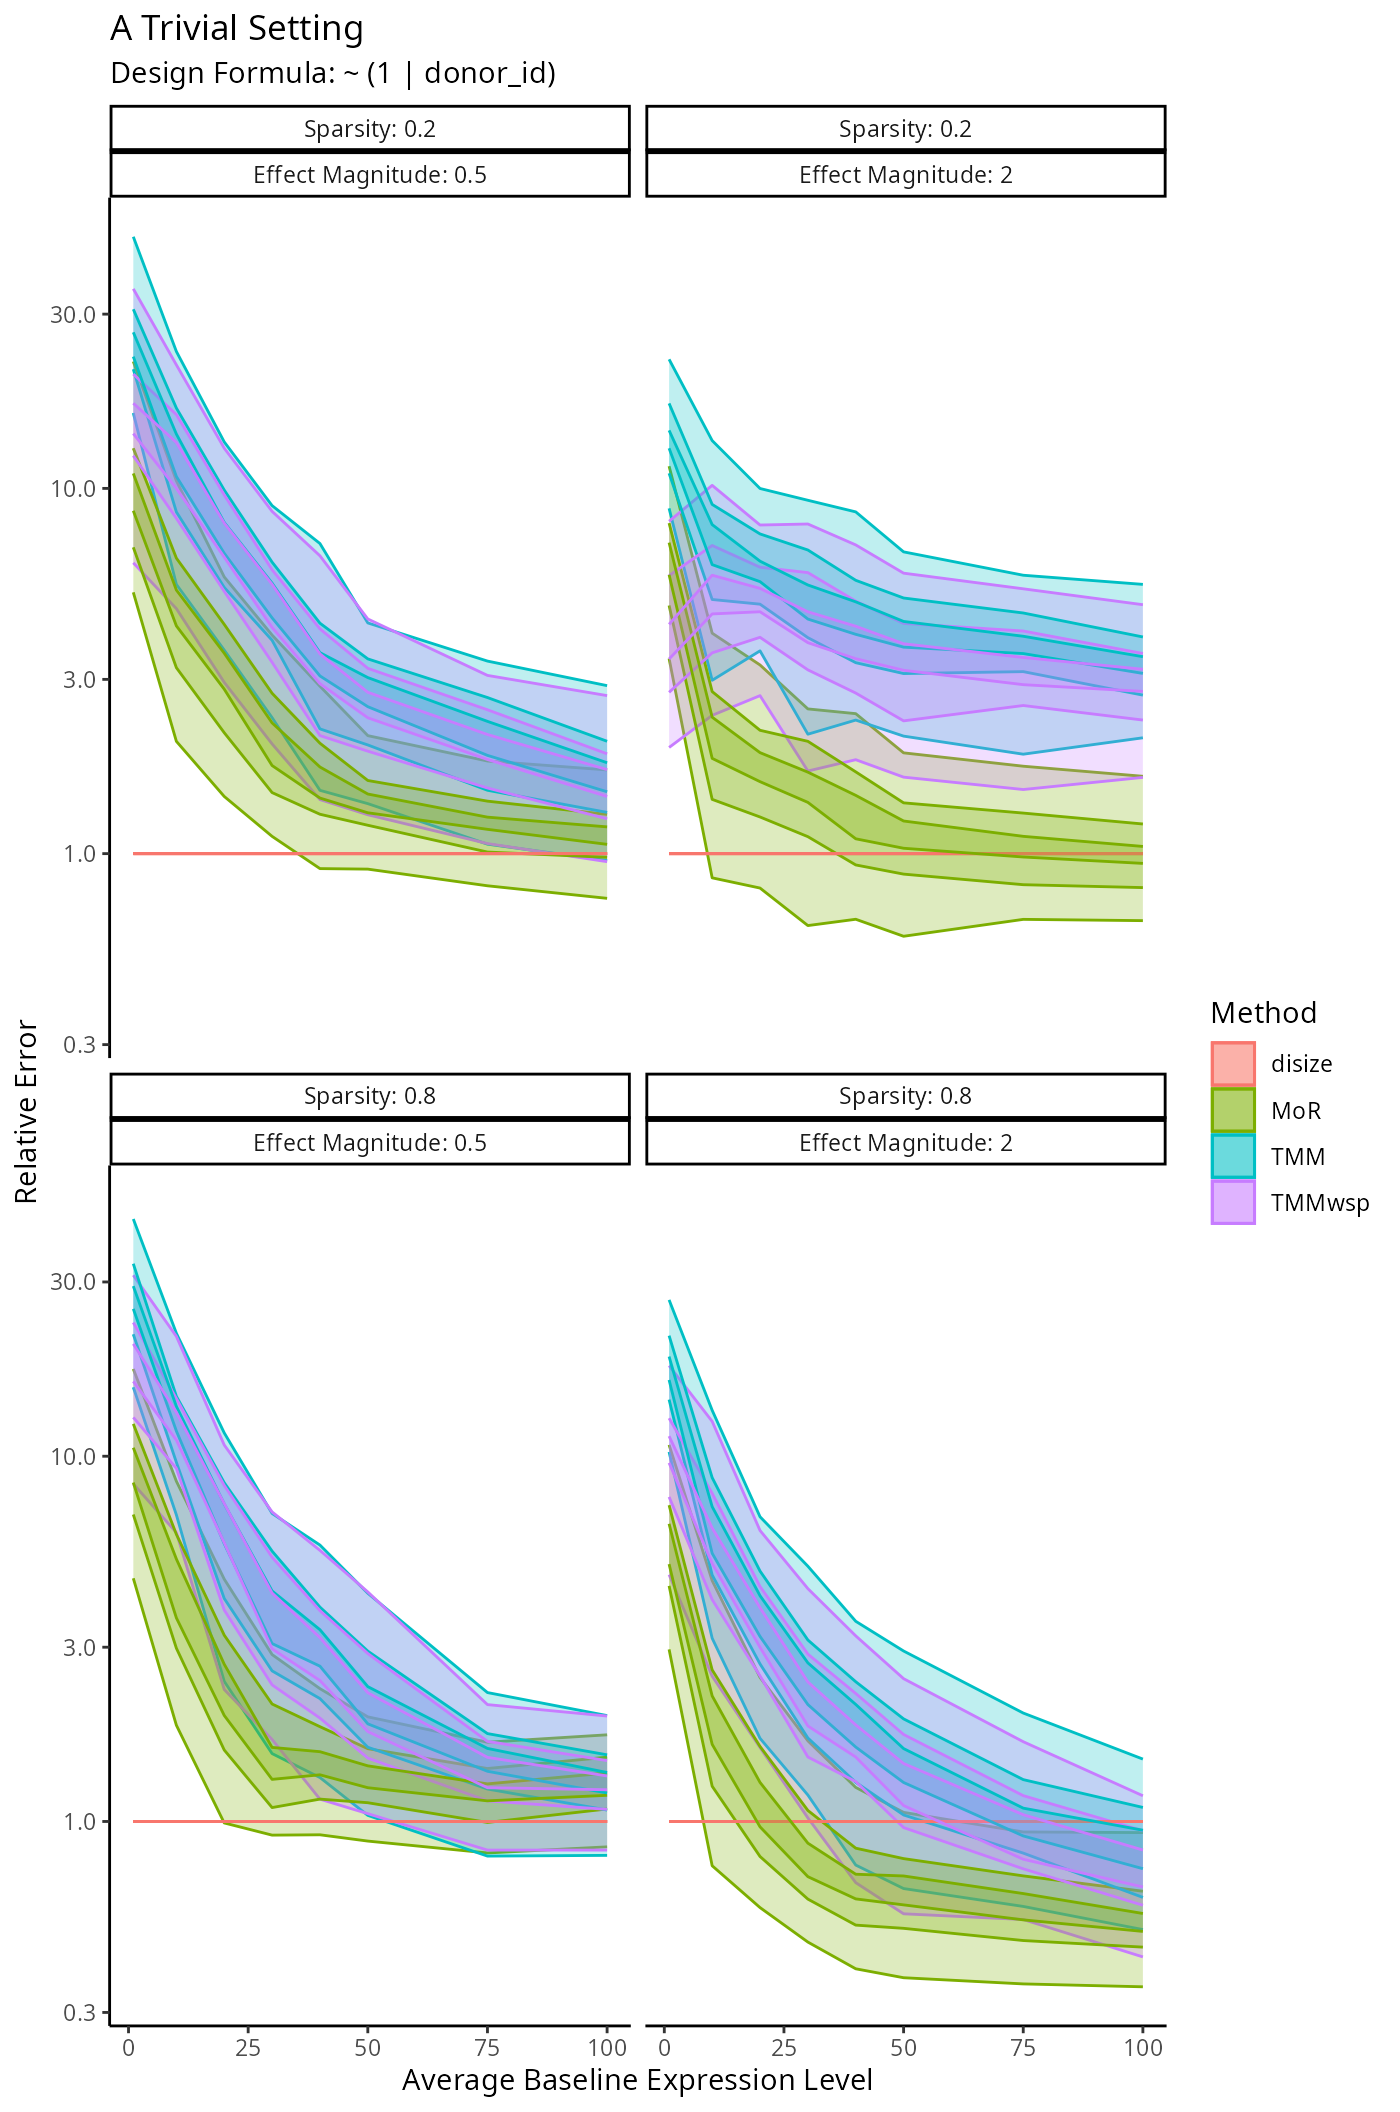
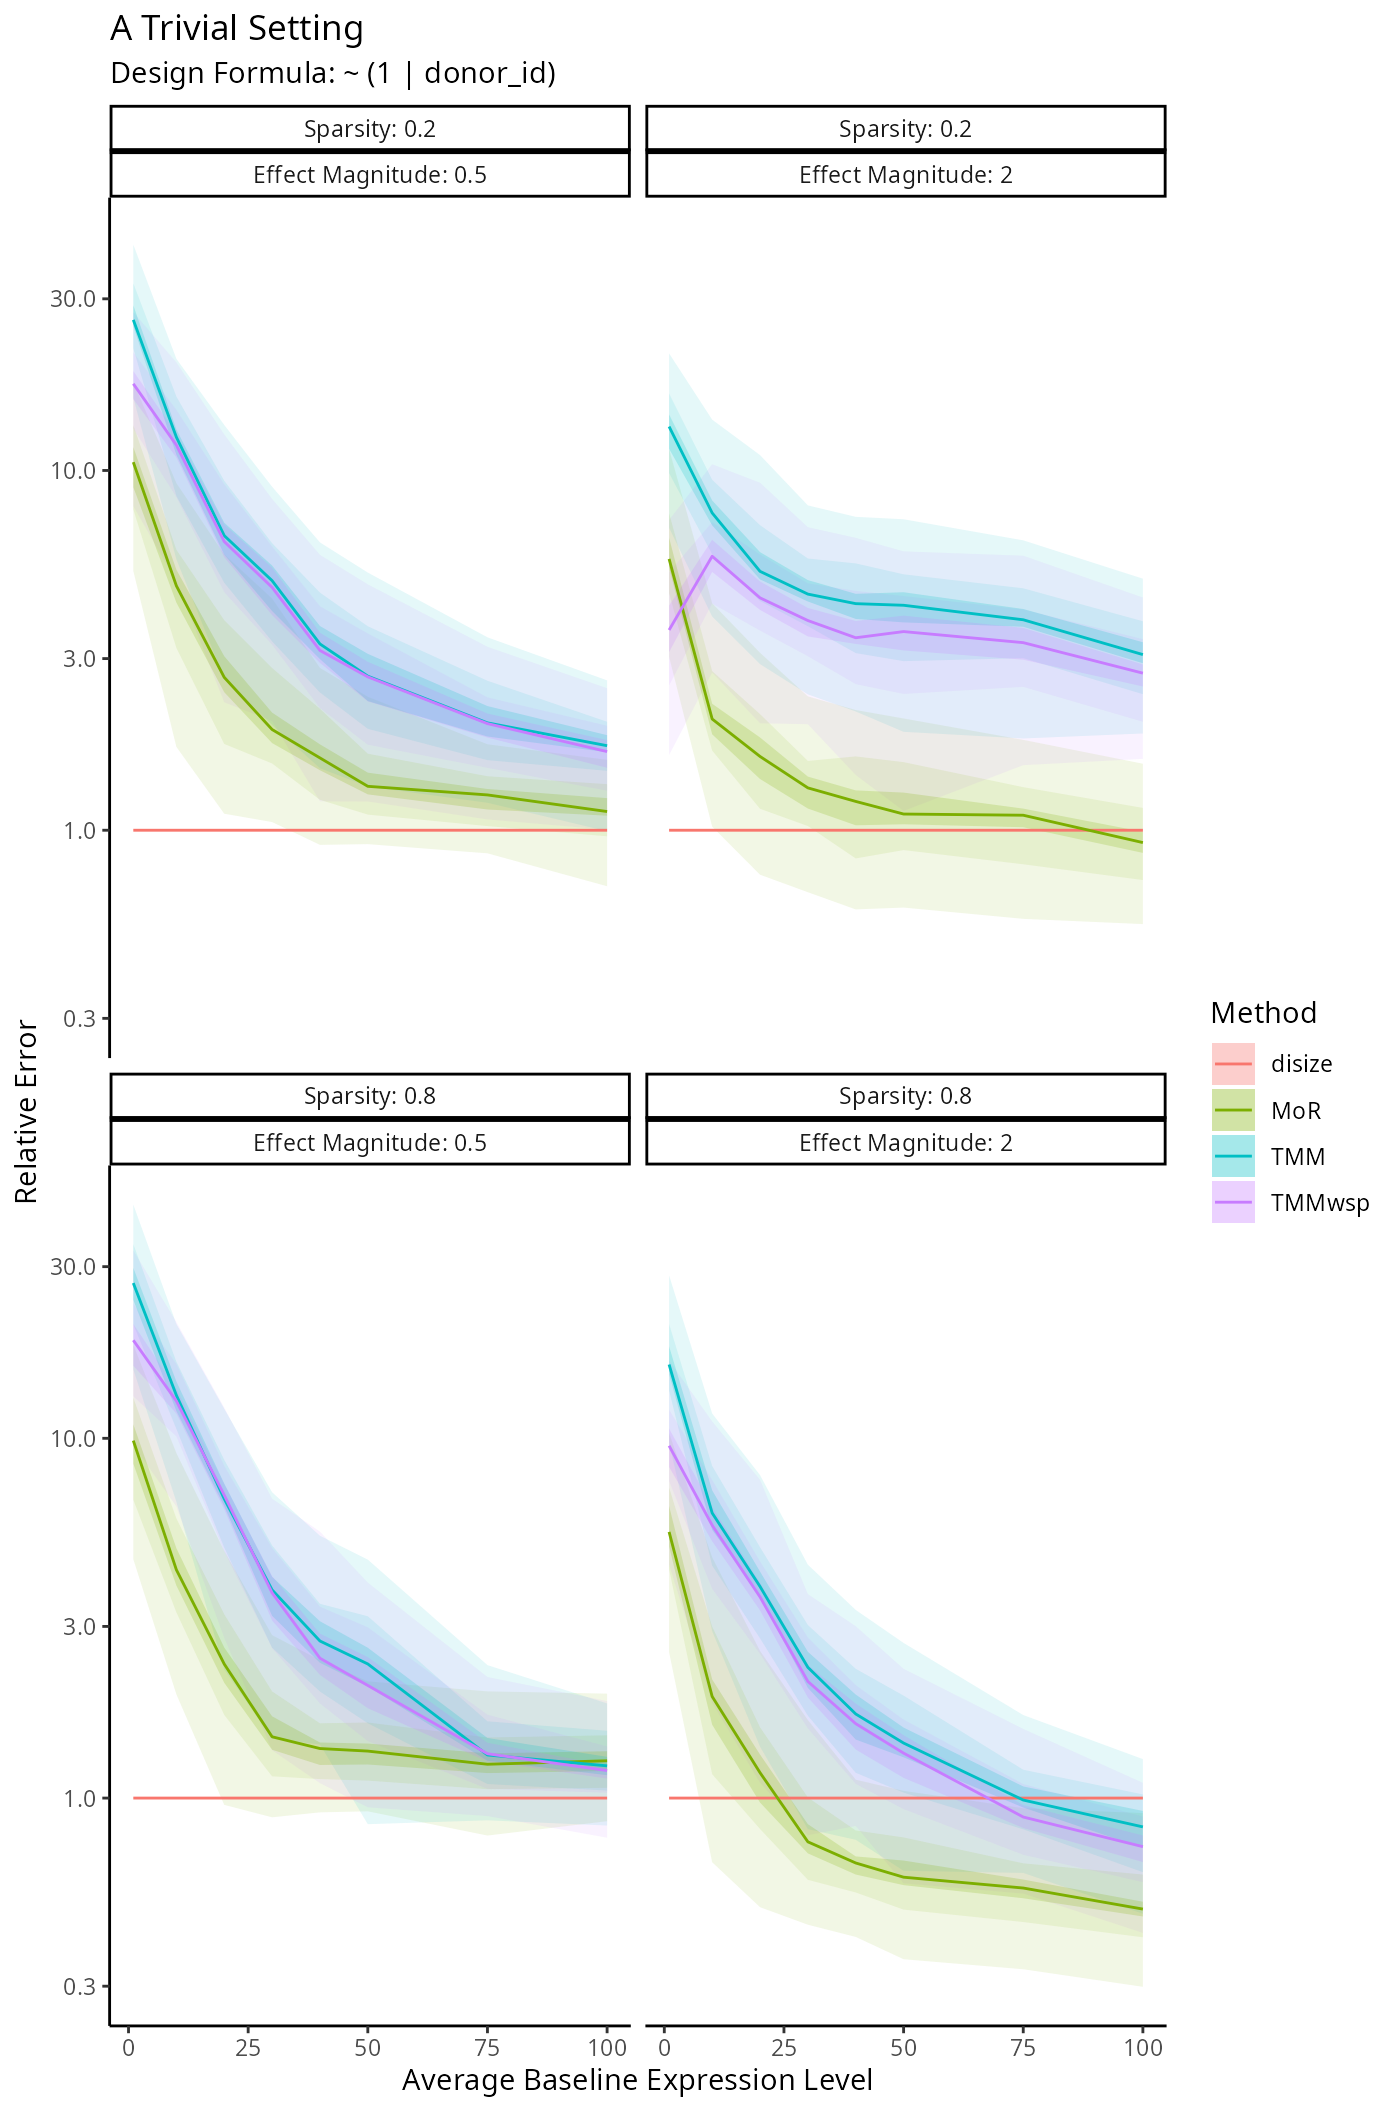
Built site for disize@0.5.0:

diff --git a/articles/benchmarking.html b/articles/benchmarking.html
@@ -180,8 +180,8 @@ to a given scenario:</p>
 <span>    <span class="co"># Construct model matrices...</span></span>
 <span></span>
 <span>    <span class="co"># Simulate size factors</span></span>
-<span>    <span class="va">size_factors</span> <span class="op">&lt;-</span> <span class="fu"><a href="https://rdrr.io/r/stats/Uniform.html" class="external-link">runif</a></span><span class="op">(</span><span class="fu"><a href="https://rdrr.io/r/base/length.html" class="external-link">length</a></span><span class="op">(</span><span class="fu"><a href="https://rdrr.io/r/base/levels.html" class="external-link">levels</a></span><span class="op">(</span><span class="va">metadata</span><span class="op">$</span><span class="va">batch_id</span><span class="op">)</span><span class="op">)</span>, <span class="fl">0.1</span>, <span class="fl">1.0</span><span class="op">)</span> <span class="op">|&gt;</span></span>
-<span>        <span class="fu"><a href="https://rdrr.io/r/stats/setNames.html" class="external-link">setNames</a></span><span class="op">(</span><span class="fu"><a href="https://rdrr.io/r/base/levels.html" class="external-link">levels</a></span><span class="op">(</span><span class="va">metadata</span><span class="op">$</span><span class="va">batch_id</span><span class="op">)</span><span class="op">)</span></span>
+<span>    <span class="va">size_factors</span> <span class="op">&lt;-</span> <span class="fu"><a href="https://rdrr.io/r/stats/Uniform.html" class="external-link">runif</a></span><span class="op">(</span><span class="fu"><a href="https://rdrr.io/r/base/length.html" class="external-link">length</a></span><span class="op">(</span><span class="fu"><a href="https://rdrr.io/pkg/S4Vectors/man/Factor-class.html" class="external-link">levels</a></span><span class="op">(</span><span class="va">metadata</span><span class="op">$</span><span class="va">batch_id</span><span class="op">)</span><span class="op">)</span>, <span class="fl">0.1</span>, <span class="fl">1.0</span><span class="op">)</span> <span class="op">|&gt;</span></span>
+<span>        <span class="fu"><a href="https://rdrr.io/r/stats/setNames.html" class="external-link">setNames</a></span><span class="op">(</span><span class="fu"><a href="https://rdrr.io/pkg/S4Vectors/man/Factor-class.html" class="external-link">levels</a></span><span class="op">(</span><span class="va">metadata</span><span class="op">$</span><span class="va">batch_id</span><span class="op">)</span><span class="op">)</span></span>
 <span>    <span class="va">batch_effect</span> <span class="op">&lt;-</span> <span class="va">size_factors</span><span class="op">[</span><span class="va">metadata</span><span class="op">$</span><span class="va">batch_id</span><span class="op">]</span></span>
 <span></span>
 <span>    <span class="co"># Simulate counts</span></span>
@@ -260,8 +260,8 @@ a dataset similar to the benchmarks above:</p>
 <span>    <span class="va">iodisps</span> <span class="op">&lt;-</span> <span class="fu"><a href="https://rdrr.io/r/stats/Lognormal.html" class="external-link">rlnorm</a></span><span class="op">(</span><span class="va">n_genes</span>, <span class="fu"><a href="https://rdrr.io/r/base/Log.html" class="external-link">log</a></span><span class="op">(</span><span class="fl">10</span><span class="op">)</span>, <span class="fl">0.5</span><span class="op">)</span></span>
 <span></span>
 <span>    <span class="co"># Simulate size factors</span></span>
-<span>    <span class="va">size_factors</span> <span class="op">&lt;-</span> <span class="fu"><a href="https://rdrr.io/r/stats/Uniform.html" class="external-link">runif</a></span><span class="op">(</span><span class="fu"><a href="https://rdrr.io/r/base/length.html" class="external-link">length</a></span><span class="op">(</span><span class="fu"><a href="https://rdrr.io/r/base/levels.html" class="external-link">levels</a></span><span class="op">(</span><span class="va">metadata</span><span class="op">$</span><span class="va">batch_id</span><span class="op">)</span><span class="op">)</span>, <span class="fl">0.1</span>, <span class="fl">1.0</span><span class="op">)</span> <span class="op">|&gt;</span></span>
-<span>        <span class="fu"><a href="https://rdrr.io/r/stats/setNames.html" class="external-link">setNames</a></span><span class="op">(</span><span class="fu"><a href="https://rdrr.io/r/base/levels.html" class="external-link">levels</a></span><span class="op">(</span><span class="va">metadata</span><span class="op">$</span><span class="va">batch_id</span><span class="op">)</span><span class="op">)</span></span>
+<span>    <span class="va">size_factors</span> <span class="op">&lt;-</span> <span class="fu"><a href="https://rdrr.io/r/stats/Uniform.html" class="external-link">runif</a></span><span class="op">(</span><span class="fu"><a href="https://rdrr.io/r/base/length.html" class="external-link">length</a></span><span class="op">(</span><span class="fu"><a href="https://rdrr.io/pkg/S4Vectors/man/Factor-class.html" class="external-link">levels</a></span><span class="op">(</span><span class="va">metadata</span><span class="op">$</span><span class="va">batch_id</span><span class="op">)</span><span class="op">)</span>, <span class="fl">0.1</span>, <span class="fl">1.0</span><span class="op">)</span> <span class="op">|&gt;</span></span>
+<span>        <span class="fu"><a href="https://rdrr.io/r/stats/setNames.html" class="external-link">setNames</a></span><span class="op">(</span><span class="fu"><a href="https://rdrr.io/pkg/S4Vectors/man/Factor-class.html" class="external-link">levels</a></span><span class="op">(</span><span class="va">metadata</span><span class="op">$</span><span class="va">batch_id</span><span class="op">)</span><span class="op">)</span></span>
 <span>    <span class="va">batch_effect</span> <span class="op">&lt;-</span> <span class="va">size_factors</span><span class="op">[</span><span class="va">metadata</span><span class="op">$</span><span class="va">batch_id</span><span class="op">]</span></span>
 <span></span>
 <span>    <span class="co"># Construct sparsity mask</span></span>

diff --git a/articles/comparing-defs.html b/articles/comparing-defs.html
@@ -173,8 +173,8 @@ for both batch definitions:</p>
 <span><span class="op">)</span></span>
 <span><span class="co">#&gt; Formatting data...</span></span>
 <span><span class="co">#&gt; Optimizing over initialization...</span></span>
-<span><span class="co">#&gt; Estimating size factors... (Max ETA: ~46.9s)</span></span>
-<span><span class="co">#&gt; Finised in 10.9s!</span></span>
+<span><span class="co">#&gt; Estimating size factors... (Max ETA: ~48s)</span></span>
+<span><span class="co">#&gt; Finised in 11s!</span></span>
 <span></span>
 <span><span class="va">size_factors_2</span> <span class="op">&lt;-</span> <span class="fu">disize</span><span class="fu">::</span><span class="fu"><a href="../reference/disize.html">disize</a></span><span class="op">(</span></span>
 <span>    <span class="va">design_formula</span>,</span>
@@ -186,8 +186,8 @@ for both batch definitions:</p>
 <span><span class="op">)</span></span>
 <span><span class="co">#&gt; Formatting data...</span></span>
 <span><span class="co">#&gt; Optimizing over initialization...</span></span>
-<span><span class="co">#&gt; Estimating size factors... (Max ETA: ~48.3s)</span></span>
-<span><span class="co">#&gt; Finised in 19.5s!</span></span></code></pre></div>
+<span><span class="co">#&gt; Estimating size factors... (Max ETA: ~48.5s)</span></span>
+<span><span class="co">#&gt; Finised in 20.1s!</span></span></code></pre></div>
 </div>
 <div class="section level2">
 <h2 id="comparing-definitions">Comparing definitions<a class="anchor" aria-label="anchor" href="#comparing-definitions"></a>

diff --git a/articles/disize.html b/articles/disize.html
@@ -202,11 +202,11 @@ factors:</p>
 <span><span class="op">)</span></span>
 <span><span class="co">#&gt; Formatting data...</span></span>
 <span><span class="co">#&gt; Optimizing over initialization...</span></span>
-<span><span class="co">#&gt; Estimating size factors... (Max ETA: ~93.8s)</span></span>
+<span><span class="co">#&gt; Estimating size factors... (Max ETA: ~94.8s)</span></span>
 <span><span class="co">#&gt; Warning in disize::disize(design_formula, counts, metadata, batch_name =</span></span>
 <span><span class="co">#&gt; "sample_id", : Model did not converge, retrying fit with different</span></span>
 <span><span class="co">#&gt; initialization... (if you see this multiple times try increasing 'n_iters')</span></span>
-<span><span class="co">#&gt; Finised in 12.6s!</span></span>
+<span><span class="co">#&gt; Finised in 12.5s!</span></span>
 <span><span class="fu"><a href="https://rdrr.io/r/base/print.html" class="external-link">print</a></span><span class="op">(</span><span class="va">size_factors_1</span><span class="op">)</span></span>
 <span><span class="co">#&gt;       Ctrl1       Ctrl2       Ctrl3        LPS1        LPS2        LPS3 </span></span>
 <span><span class="co">#&gt;  0.08671084  0.01092470 -0.07757363  0.08014565  0.00838777  0.09461482 </span></span>
@@ -229,8 +229,8 @@ a larger <code>n_feats</code>:</p>
 <span><span class="op">)</span></span>
 <span><span class="co">#&gt; Formatting data...</span></span>
 <span><span class="co">#&gt; Optimizing over initialization...</span></span>
-<span><span class="co">#&gt; Estimating size factors... (Max ETA: ~131.5s)</span></span>
-<span><span class="co">#&gt; Finised in 21.8s!</span></span>
+<span><span class="co">#&gt; Estimating size factors... (Max ETA: ~133.7s)</span></span>
+<span><span class="co">#&gt; Finised in 23.2s!</span></span>
 <span><span class="fu"><a href="https://rdrr.io/r/base/print.html" class="external-link">print</a></span><span class="op">(</span><span class="va">size_factors_2</span><span class="op">)</span></span>
 <span><span class="co">#&gt;        Ctrl1        Ctrl2        Ctrl3         LPS1         LPS2         LPS3 </span></span>
 <span><span class="co">#&gt;  0.094264803  0.013007556 -0.070802495  0.069177490 -0.005186325  0.081820682 </span></span>